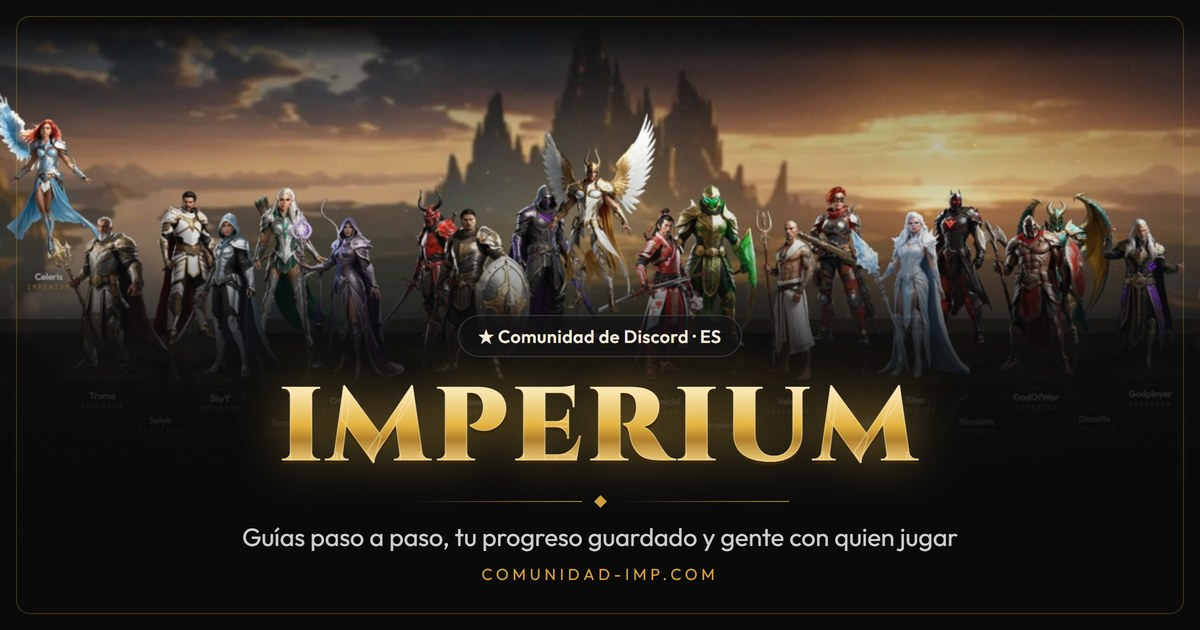
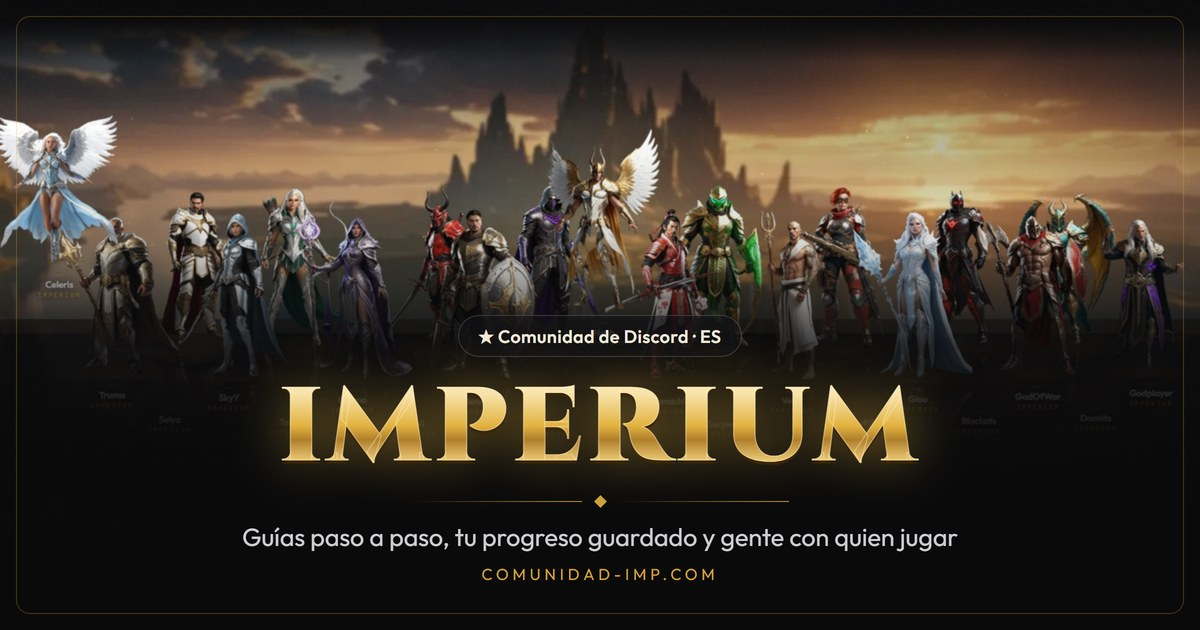
fix(fama): Celeris vuelve a su arte anterior (la tirada pelirroja perdio un ala)
El render nuevo salio con una sola ala, asi que se restaura el que estaba
publicado (pelo blanco, dos alas) desde el historial, junto con sus medidas.
Se queda el acercamiento al grupo, que si estaba bien. El prompt del script
vuelve a la version buena, con una nota para revisar las dos alas si se
reintenta el pelo rojo. Banner de compartir rehecho para que coincida.

Changed region(s): [[0.0, 0.1508, 0.9867, 0.573]]

diff --git a/scripts/fama/generar_leyendas.py b/scripts/fama/generar_leyendas.py
@@ -114,11 +114,13 @@ LEYENDAS: list[tuple[str, str, str, int]] = [
      "ornate white and gold plate armor with a flowing blue cape, holding a golden spear, legs "
      "trailing behind him, dynamic hovering pose seen from the front, whole body and both wings "
      "fully visible, floating with no ground under his feet", 117),
+    # Ojo: la tirada con el pelo rojo (seed 318) salió con un ala sola, así que
+    # se volvió a esta. Si se reintenta, revisar que tenga LAS DOS alas.
     ("celeris", "Celeris",
      "female Daeva archmage flying in mid air with large luminous pale blue feathered wings spread "
-     "wide, fully covered flowing silver and sky blue robe armor, long vivid red hair and cloth "
-     "streaming in the wind, holding a glowing crystal staff, graceful hovering pose seen from the "
-     "front, whole body and both wings fully visible, floating with no ground under her feet", 318),
+     "wide, fully covered flowing silver and sky blue robe armor, long white hair and cloth streaming "
+     "in the wind, holding a glowing crystal staff, graceful hovering pose seen from the front, whole "
+     "body and both wings fully visible, floating with no ground under her feet", 118),
 ]
 
 
